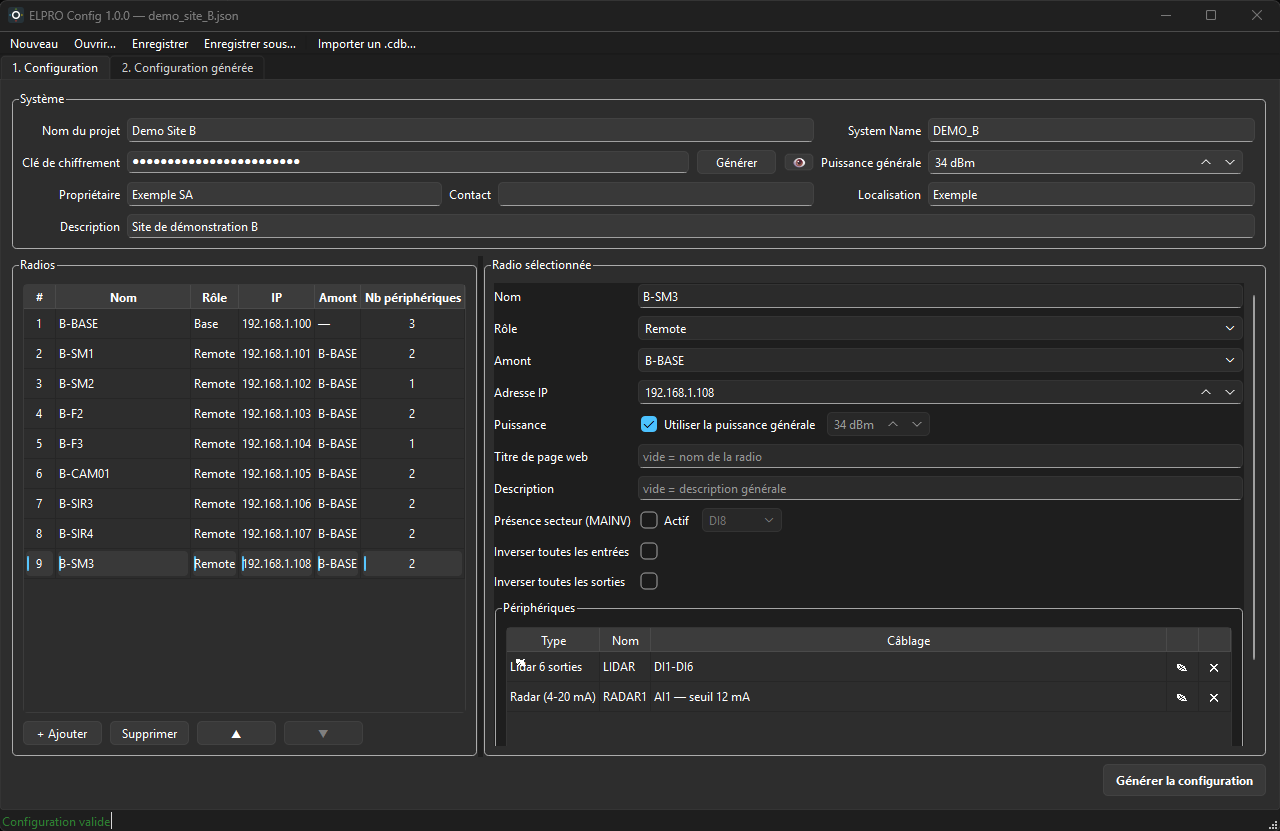
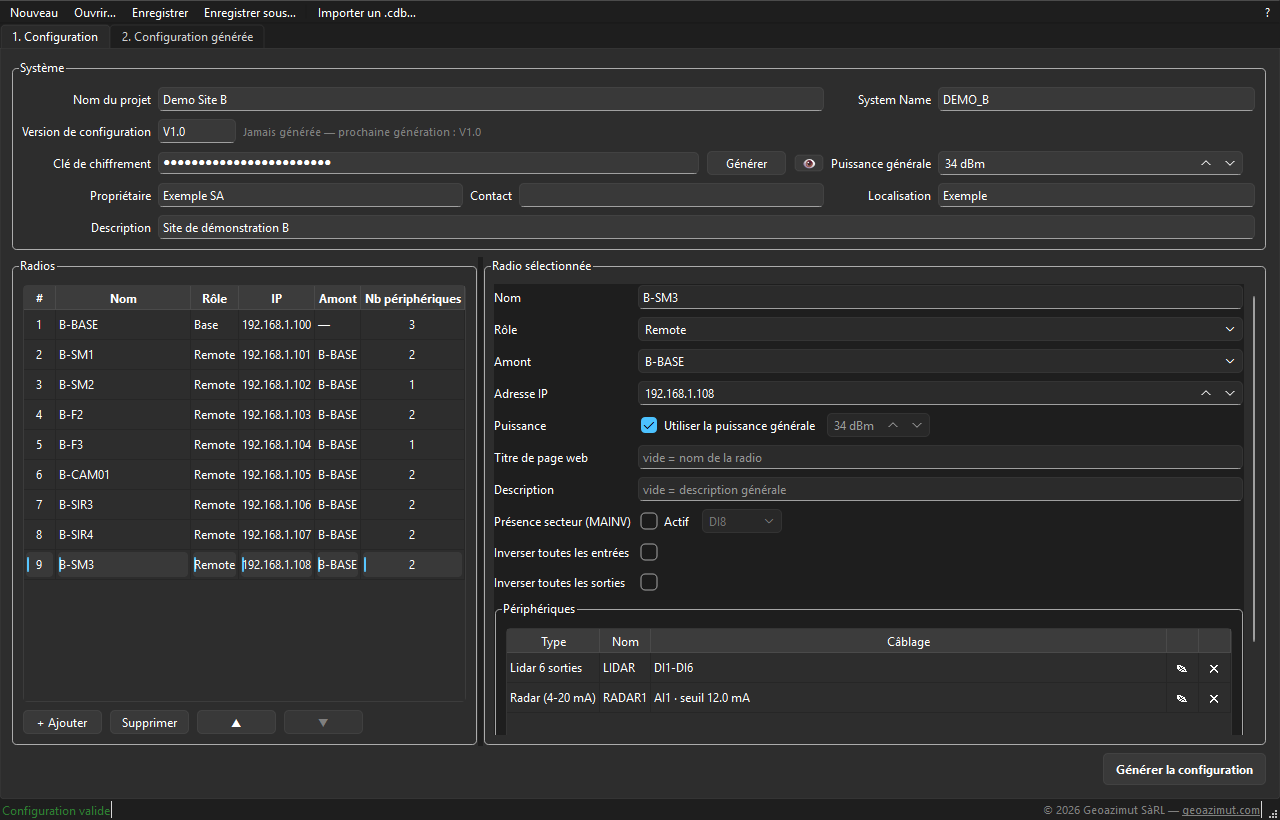
Passation, captures 1.3.0 et graphify-out/ ignoré
- docs/PASSATION.md : document de reprise pour le programmeur
- docs/images : captures des pages 1 et 2 refaites avec la version 1.3.0
- .gitignore : graphify-out/ (graphe de connaissances local)

diff --git a/docs/PASSATION.md b/docs/PASSATION.md
@@ -1,0 +1,204 @@
+# Passation — ELPRO Config
+
+Document de reprise pour le nouveau programmeur. À lire en entier avant toute modification, puis à garder dans `docs/PASSATION.md`.
+
+---
+
+## 1. En une minute
+
+**ELPRO Config** est une application Windows de Geoazimut SàRL. Elle génère, à partir d'une saisie simple, la configuration standardisée des radios **ELPRO 415U-2-C4** d'un site d'alarme : une centrale d'alarme (« base ») et ses stations (remotes et repeaters). Elle produit le fichier `.cdb` à ouvrir dans le logiciel ELPRO **CConfig**, qui programme les radios, ainsi que la logique IO Plus de la base, un compte rendu PDF et la liste d'adresses Excel.
+
+| Élément | Valeur |
+|---|---|
+| Dépôt | `lucapancottigz/elpro-config` (**public**) |
+| Dernière version publiée | **1.3.0** (moteur de règles v1.8) |
+| Langage / interface | Python 3.11+ / PySide6 |
+| Distribution | Installateur Inno Setup publié dans les Releases GitHub |
+| Licence | Propriétaire : « © 2026 Geoazimut SàRL. Tous droits réservés. », geoazimut.com (fichier `LICENSE`) |
+| Application sœur | **ELPRO Logs** (dépôt `elpro-logs`) : elle lit les `.elpro.json` produits ici |
+
+---
+
+## 2. Qui fait quoi
+
+| Rôle | Responsabilité |
+|---|---|
+| **Luca** (Geoazimut, propriétaire) | Exprime les besoins, teste sur Windows et sur les vraies radios, fusionne les PR, publie les releases. Il n'est pas à l'aise avec GitHub : il lui faut des **commandes PowerShell exactes, une par une**, avec le résultat attendu après chacune. |
+| **Ingénieur** (session Claude séparée) | Écrit et teste le **moteur de règles** (`engine/`), les tests du moteur et les spécifications. Il livre des **compléments** (zip : fichiers moteur, tests, `COMPLEMENT_Vx.md`) et rédige les procédures de test de Luca. |
+| **Programmeur** (toi) | Interface, intégration des compléments, documentation `docs/`, empaquetage (`build.bat`, installateur), **une PR par version**. Tu n'as accès qu'à ce dépôt. |
+
+Circuit d'une version : besoin de Luca → complément de l'ingénieur → ta PR sur une branche `claude/...` → tests de Luca sous Windows → fusion et release par Luca.
+
+---
+
+## 3. Règles de travail (non négociables)
+
+1. **Ne modifie pas `engine/elpro_engine.py`, `engine/views.py`, `resources/`, `examples/` ni `tests/`.** Leurs règles ont été validées sur de vraies radios. Si quelque chose y semble faux, **arrête-toi et signale-le** : la correction passe par l'ingénieur. Dans `export_excel.py` et `export_pdf.py`, seule la mise en forme peut changer.
+2. **Aucune règle métier dans l'interface.** Elle saisit, appelle le moteur, affiche. Les messages d'erreur viennent de `elpro_engine.valider()`.
+3. **Aucune donnée réelle dans le dépôt**, qui est public : ni nom de client ou de site, ni clé de chiffrement, ni plan IP réel, ni `.elpro.json` ou `.cdb` de site. Seuls les exemples fictifs (`demo_site_A`, `demo_site_B`) y figurent.
+4. **Noms de fichiers et dossiers de code en anglais** ; **commentaires, docstrings, documentation et interface en français**.
+5. **Les fichiers produits pour l'utilisateur gardent des noms français** : `_Compte_rendu.pdf`, `_Adresses.xlsx`, `IOPlus_<radio>_V<x.y>_DESACTIVE.sconf`, `.elpro.json`. Les accents sont retirés des noms de fichiers.
+6. Avant toute livraison : `.\venv\Scripts\python.exe -m unittest discover -s tests -v` doit afficher **`Ran 22 tests … OK`**. `build.bat` le vérifie aussi.
+7. Installateur : ne change ni l'**`AppId`** ni **`AppPublisher` = `GeoAzimut`**, sinon une mise à jour s'installe à côté de l'ancienne version au lieu de la remplacer.
+8. Mentions de copyright présentes partout : fenêtre « À propos », barre d'état, propriétés de l'exécutable, installateur (page de licence), PDF et Excel.
+
+---
+
+## 4. Architecture
+
+```
+elpro-config/
+├─ app.py, version.py (APP_VERSION), build.bat
+├─ ui/                    ← interface (main_window, page_config, page_result, dialogs, …)
+├─ engine/
+│  ├─ elpro_engine.py     ← moteur de règles (NE PAS MODIFIER)
+│  ├─ views.py            ← données prêtes à afficher (NE PAS MODIFIER)
+│  ├─ export_excel.py, export_pdf.py   ← mise en forme seulement
+├─ resources/             ← gabarits XML validés dans CConfig, police du PDF, icône
+├─ examples/              ← demo_site_A/B.json + expected_*.json
+├─ tests/                 ← tests du moteur (22)
+├─ installer/             ← elpro_config.iss (Inno Setup, UTF-8 avec BOM) + génération de la ressource de version
+└─ docs/                  ← 00_LISEZMOI … 05_Recette (dossier de réalisation)
+```
+
+Les noms exacts peuvent différer légèrement ; le dépôt fait foi.
+
+**Fonctions du moteur appelées par l'interface :**
+
+```python
+import elpro_engine as M, views as V, export_excel as XL, export_pdf as PDF
+projet = M.normaliser_projet(projet)              # à l'ouverture d'un .elpro.json (anciens formats)
+erreurs = M.valider(projet)                        # [] = valide
+projet, niveau = M.preparer_generation(projet)     # incrémente la version de config si nécessaire
+plan = M.calculer_plan(projet)
+M.ecrire_cdb(plan, chemin); M.ecrire_sconf(lignes, chemin)
+V.vue_page2(plan); XL.ecrire_excel(...); PDF.ecrire_pdf(...)
+projet, avertissements = M.importer_cdb(chemin)    # M.ProjetProtege si le .cdb est protégé
+M.base_nom_fichier(plan)                           # préfixe des fichiers exportés, avec _V<x.y>
+plan['avertissements']                             # ex. RSSI retirés du tableau de bord de la base
+```
+
+Ces signatures sont indicatives : `docs/01_Architecture.md` et le code font foi.
+
+**Les deux pages de l'application :**
+- **Page 1 (Configuration)** : système, liste des radios, radio sélectionnée, périphériques, bouton « Générer ».
+- **Page 2 (Visualisation)** : arbre présenté comme dans CConfig, en lecture seule, avec les exports `.cdb`, `.sconf`, PDF et Excel.
+
+Toute modification en page 1 efface le plan et grise les exports.
+
+---
+
+## 5. Le standard radio, en bref
+
+`docs/` décrit tout le standard en détail. L'essentiel à connaître :
+
+**Topologie et communication**
+- **Topologie :** une base, la centrale d'alarme, et jusqu'à 17 radios, remotes et repeaters, en mode Fixed Links. Réseau local 192.168.1.0/24, base en `.100`.
+- **Polling :** la base interroge chaque remote dans des créneaux de **22 s**. Un cycle dure T = nombre de créneaux × 22 s.
+- **IO Plus de la base :** pour chaque remote, comflag = (toutes ses lectures ont échoué) OU (l'envoi des commandes a échoué). Le `.sconf` (tar.gz contenant `Logic.conf` et `Logic.version`) est **toujours livré désactivé** (`Enabled 0`) : Luca l'active à la main.
+- **Fail-safe :** commandes 401 × 50.
+
+**Plan de registres de la base**
+- Détections : 150nn.
+- Comflags : 151xx, où xx est le numéro de la radio (01 = base).
+- Échecs : 152xx (BATTV), 153xx (RSSI), 154xx (détections), 155xx (commandes), 156xx (MAINV), 157xx (radar). Ces registres sont utilisés par les mappings et l'IO Plus, mais **ne figurent pas dans la liste des registres** affichée.
+- MAINV (secteur) : 105xx.
+- Tension batterie : 305xx, avec 8192 = 0 V et 49152 = 40 V.
+- RSSI : 351xx, avec la valeur 0..150 = 0..−150 dBm.
+- Radars : 352nn, valeur brute de 16384 (4 mA) à 49152 (20 mA).
+- Commandes :
+
+| Registres | Commande |
+|---|---|
+| 401–410 | feu rouge |
+| 411–420 | feu orange clignotant |
+| 421–430 | feu orange fixe |
+| 431–440 | autres signalisations (sirène, flash, caméra…) |
+| 441–450 | feu vert |
+
+**Périphériques**
+- **Feu :** 4 sorties, avec les clés JSON `do_rouge` (obligatoire), `do_orange_cli` et `do_orange_fixe` (au moins un orange), `do_vert`. L'ancien `do_orange` est converti en `do_orange_cli` par `normaliser_projet`.
+- **Radar :** échelle facultative `mesure_4ma`, `mesure_20ma` et `unite` (cm par défaut). Les seuils sont stockés en mA.
+- **Base :** elle accepte n'importe quel périphérique. Un radar sur la base est copié en local (30000 + AI) vers 352nn.
+
+**Noms et tableau de bord**
+- **Noms des registres et du tableau de bord :** **16 caractères au maximum** et uniques (`nom_court`). Au-delà, la radio affiche « DIn1 » ou « DOut5 » à la place du nom.
+- **Tableau de bord de la base :** toutes les alarmes et tous les radars, une commande de chaque type, tous les BATTV, MAINV, RSSI et comflags. Il est limité à **50 éléments** : au-delà, les RSSI sont retirés et un avertissement est ajouté.
+
+**Version de configuration** (dans le `.elpro.json`)
+- Une modification **majeure** fait passer de X.Y à X+1.0 : radio ajoutée, retirée ou déplacée, périphérique ajouté, retiré ou de type changé, MAINV activé ou désactivé.
+- Toute autre modification est **mineure** : X.Y+1.
+- La version est incrémentée à la génération ; la première génération reste en 1.0.
+- Tous les fichiers produits portent `_V<x.y>` dans leur nom.
+
+**Pièges des fichiers `.cdb`**
+- Encodage **UTF-16 LE avec BOM, fins de ligne CRLF**.
+- Un fichier protégé contient `<DBE>…` à la place des unités : refuser l'import et demander à l'utilisateur une copie non protégée.
+- La partie « modèle » du fichier fait foi, pas l'image `E2Config`.
+- Les champs modifiés portent les marqueurs `d="C"` ou `d="D"`.
+
+---
+
+## 6. Construire, tester, publier
+
+**Environnement Windows de Luca**
+- Les dépôts sont dans `Documents\Git\` (et non `GitHub`).
+- Le lanceur `py` et `python` ne sont **pas** dans le PATH. Python 3.12 est installé dans `%LOCALAPPDATA%\Programs\Python\Python312\`.
+- `build.bat` suppose un `venv` existant. Quand c'est nécessaire, donne à Luca la commande complète : `& "<chemin>\python.exe" -m venv venv`, puis `.\venv\Scripts\python.exe -m pip install -r requirements.txt`.
+- `build.bat` enchaîne les tests du moteur, la recette automatique de l'interface, PyInstaller (`--onedir`), Inno Setup et `SHA256SUMS.txt`. Il produit dans `dist\` : `ELPRO_Config_Setup_<version>.exe`, `ELPRO_Config_Setup.exe` et `SHA256SUMS.txt`.
+- Le message Qt `This plugin does not support propagateSizeHints()`, émis pendant la recette hors écran, est **sans gravité**.
+
+**Publication par Luca** : l'ingénieur lui fournit une procédure `Test_Vx.y.md` qui enchaîne :
+1. `gh pr checkout N`, puis `.\build.bat` ;
+2. les tests sous Windows ;
+3. `gh pr merge N --merge`, puis `git checkout main`, `git pull` et un nouveau `.\build.bat` ;
+4. l'extraction de la section `## [x.y.z]` du `CHANGELOG.md` ;
+5. `gh release create vx.y.z` avec les 3 fichiers, puis `--latest` ;
+6. la vérification de l'empreinte du lien `releases/latest/download/ELPRO_Config_Setup.exe`.
+
+**À chaque version :**
+- `version.py` ;
+- une section `## [x.y.z]` dans `CHANGELOG.md`, dont le texte devient les notes de release ;
+- la mise à jour de `docs/` et du README ;
+- une PR dont la description résume les changements, les tests passés et **ce qui reste à tester sous Windows**.
+
+---
+
+## 7. Historique
+
+| Version | Contenu principal |
+|---|---|
+| 1.0.0 | Première version publique : saisie, plan, exports, import `.cdb`, installateur, copyright |
+| 1.1.0 | Version de configuration (majeure/mineure) dans les noms de fichiers, feu à 4 sorties, accents retirés des noms de fichiers, tout périphérique accepté sur la base |
+| 1.2.0 | Registres d'échec retirés de la liste des registres, renumérotation des commandes (vert en 441–450) |
+| 1.3.0 | Noms de 16 caractères au maximum, radar en unité physique (cm), tableau de bord de la base limité à 50 éléments |
+
+`CHANGELOG.md` fait foi.
+
+---
+
+## 8. Chantiers ouverts
+
+1. **Générer directement le XML de chaque radio**, au lieu du `.cdb` pour CConfig. C'est en attente d'une radio de banc chez Luca. CConfig n'est pas fiable : il lui arrive d'annoncer « programmé » alors que la radio ne l'est pas. L'export XML d'une radio (racine `<group name="E2Config">`) contient toute sa configuration :
+   - réseau et identification ;
+   - noms des E/S (`IOUsrCfg`) et mappings (`ELPROMesh`) ;
+   - `FailSafe` et tableau de bord (`HMI`) ;
+   - IO Plus (`Logic`) et **log** (`DataLog`).
+
+   Il reste à faire, par l'ingénieur :
+   - obtenir l'export d'une remote et d'un repeater ;
+   - vérifier sur radio de banc que la radio accepte le rechargement de son propre XML ;
+   - écrire le générateur.
+
+   Bonus prévu : une **vérification**, qui compare l'export lu sur la radio au XML attendu.
+2. **Activer automatiquement le log de la centrale (DataLog).** Il n'est configurable ni dans le `.cdb` ni dans CConfig, mais il figure dans le XML de la radio. C'est lié au point 1. Liste standard actuelle, configurée à la main : 16 entrées, **Scan Rate 30, Records per File 2880** (voir `docs/` d'ELPRO Logs).
+3. Remontée des « 15501 » et autres registres d'échec de la base dans l'interface : aucun besoin exprimé pour l'instant.
+
+---
+
+## 9. Pour démarrer
+
+1. Clone le dépôt et lis `docs/00_LISEZMOI.md` à `docs/05_Recette.md`, puis `CHANGELOG.md`.
+2. Crée le venv et lance les tests : `Ran 22 tests … OK`.
+3. Lance l'application et ouvre `examples/demo_site_B.json`, puis Générer : la page 2 se remplit.
+4. Attends le prochain complément de l'ingénieur. Ne prends pas d'initiative sur les règles radio.
